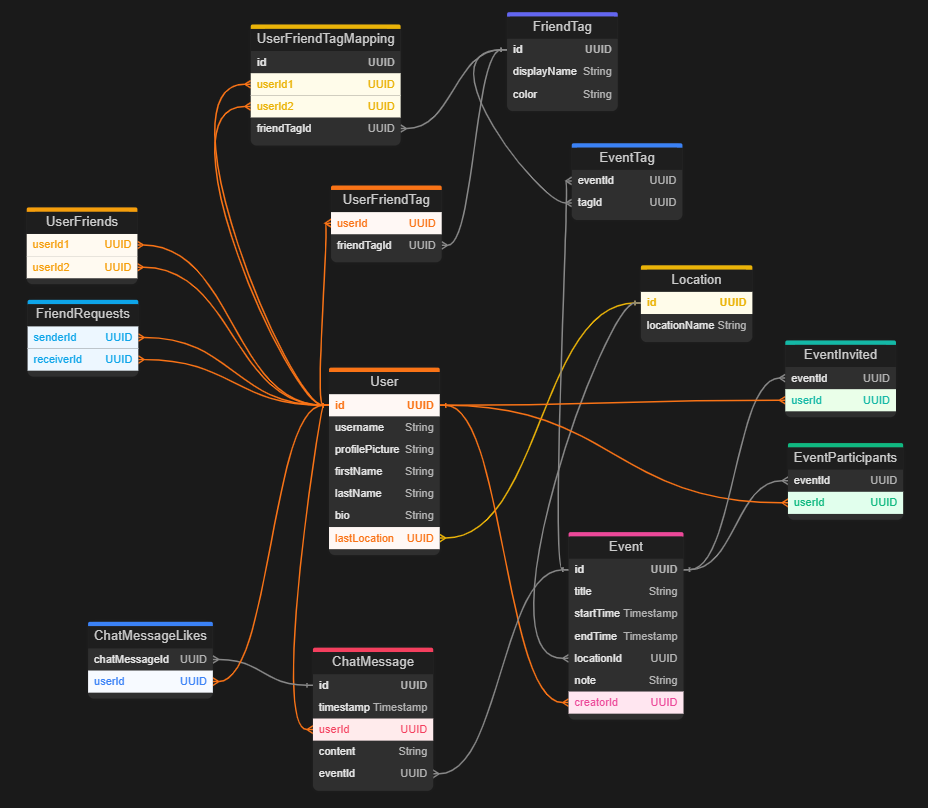
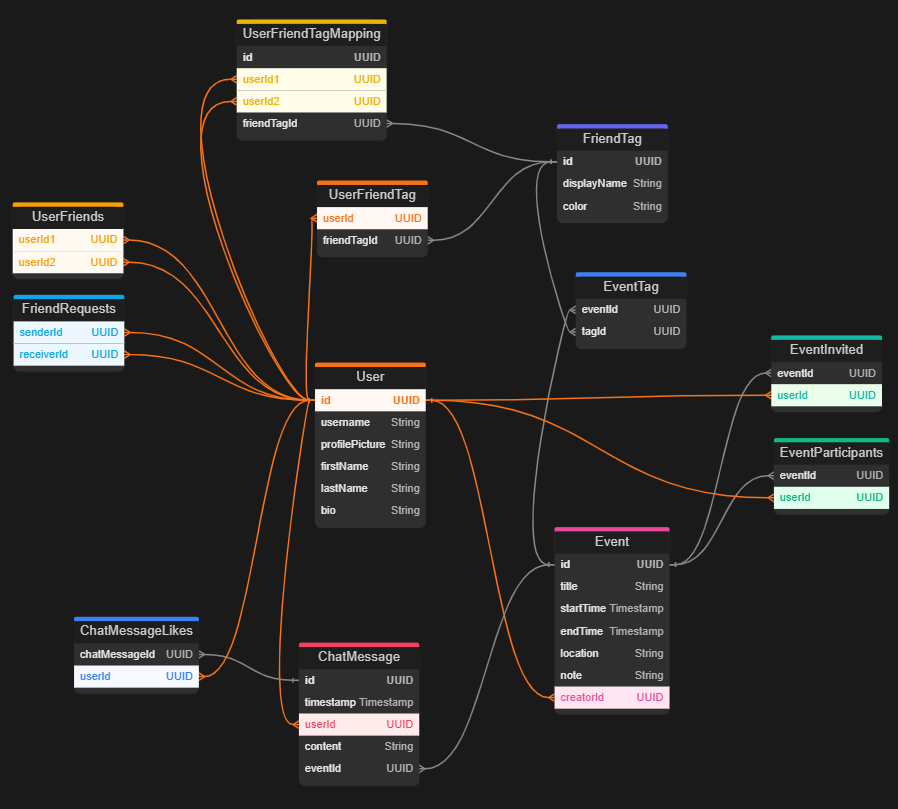
Removed location table

diff --git a/README.md b/README.md
@@ -18,7 +18,7 @@ Back-End for the [Spawn Mobile App](https://github.com/Daggerpov/Spawn-App-iOS-S
 
 # Entity Relationship Diagram
 
-![entity-relationship-diagram-Nov-20](entity-relationship-diagram.png)
+![entity-relationship-diagram-Nov-20-v2-removed-location](entity-relationship-diagram.png)
 
 # Folder Structure Explanation
 
